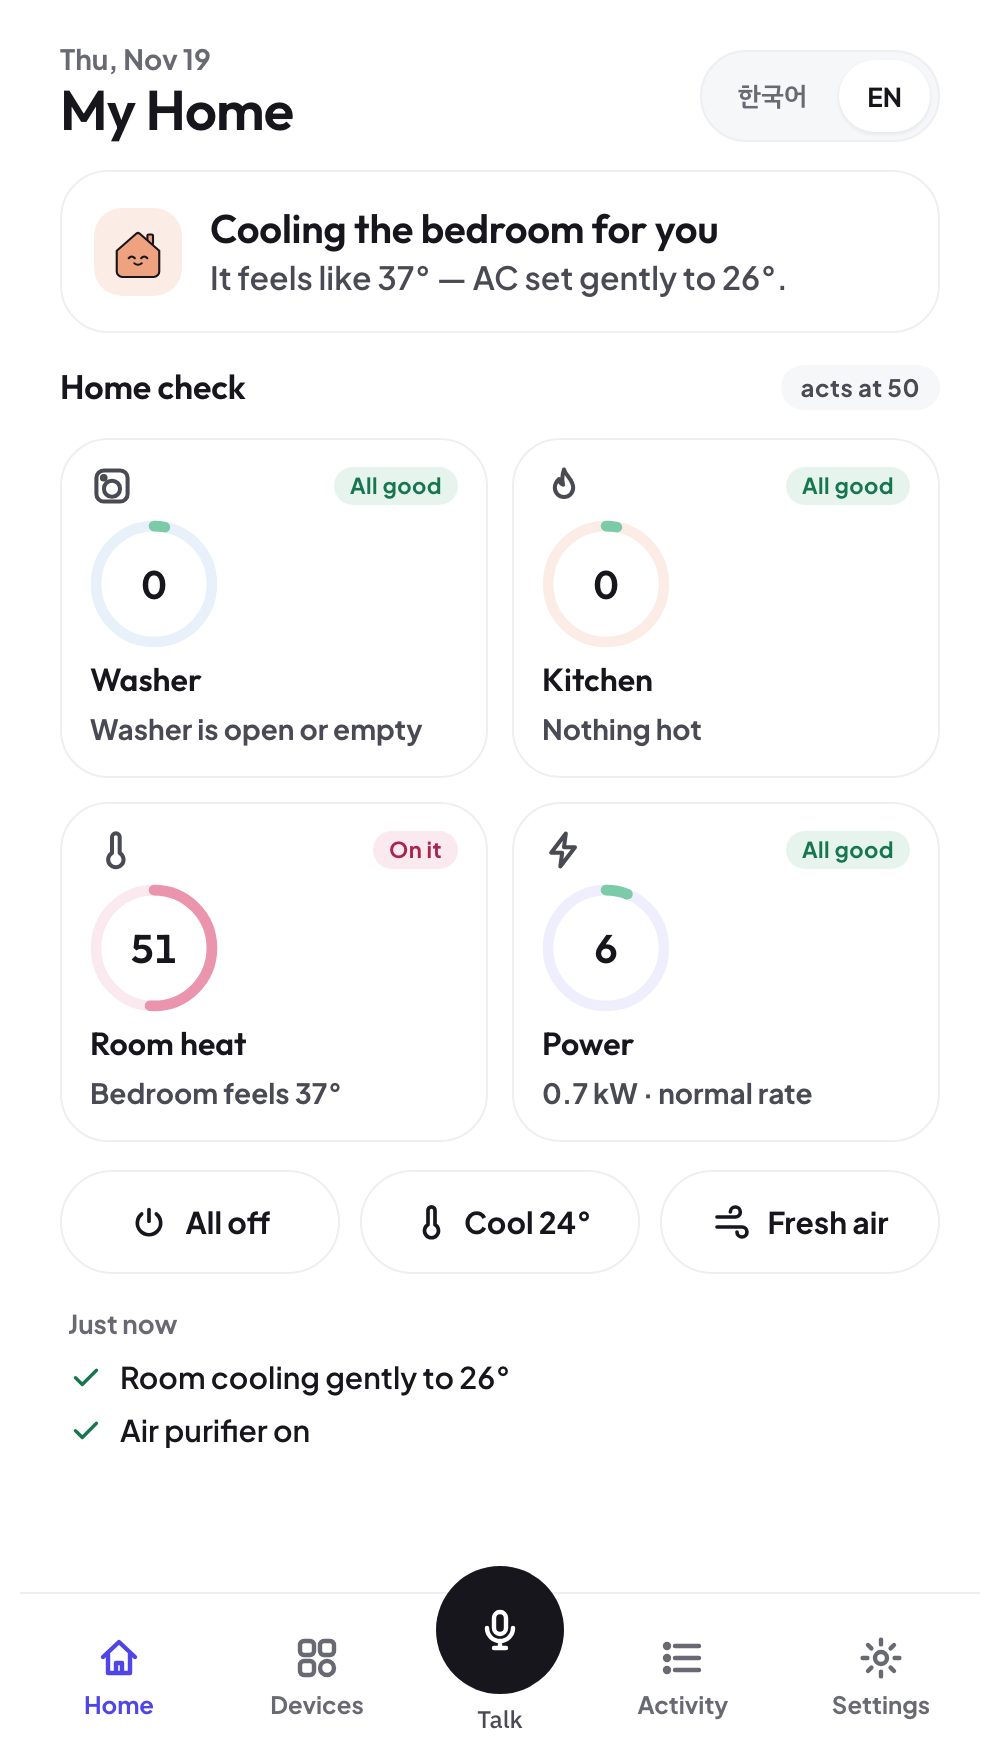
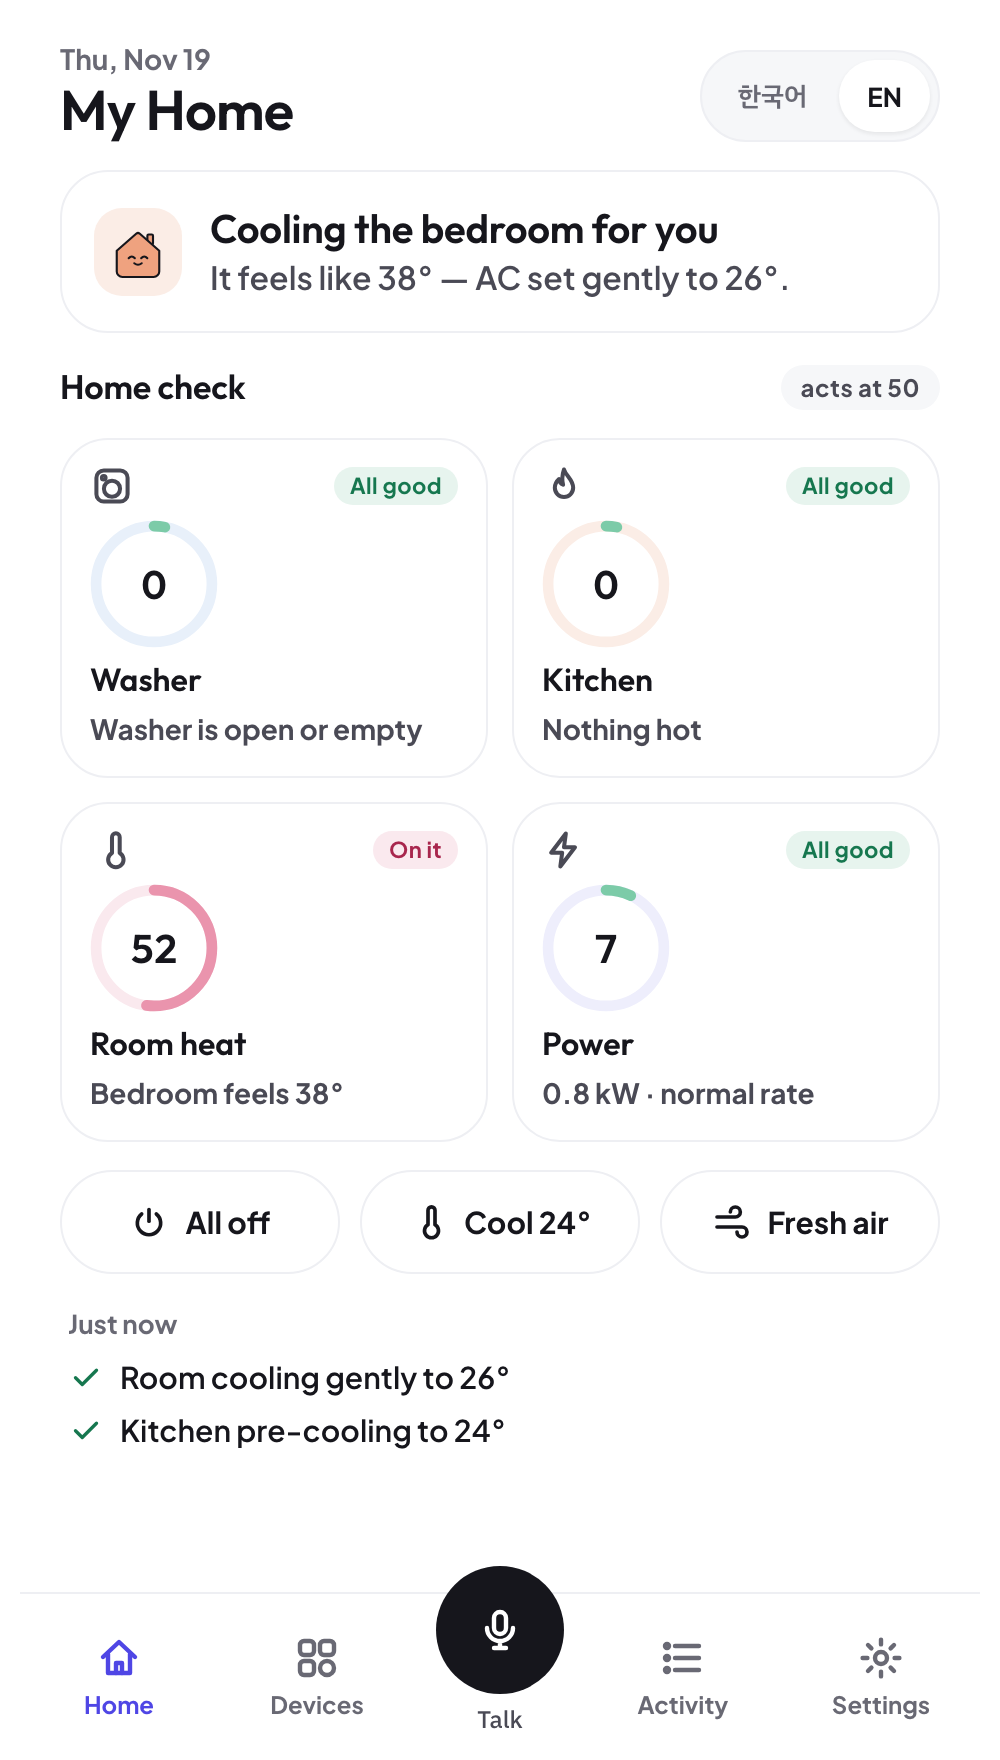
docs: simulator wattages from LG specifications; screenshots refreshed
PLI section states the LG appliance draws and the 845 W / 40 W-per-degree
AC model; Use Cases 3 and 8 use the new figures (dryer 1.4 kW, peak
2.4 -> 2.3 -> 1.7 kW). All use-case screenshots regenerated.

diff --git a/docs/project_specifications_final.tex b/docs/project_specifications_final.tex
@@ -183,7 +183,7 @@ The risk assessment module (\texttt{app/risk.py}) computes four indices determin
     \item \textbf{Environmental \& Hygiene Optimization (MRI):} Prevents mold proliferation in sealed appliances early using low-wattage ventilation or dehumidification, avoiding harsh chemical cleaners and energy-heavy hot-water tub-clean cycles \cite{epa2022, who2009}.
     \item \textbf{Thermodynamic \& Energy Load Balancing (TOI):} Tracks concurrent heat wattage ($W$), kitchen temperature ($T_k$), and refrigerator compressor duty cycle ($D > 0.6$, signaling excess thermal strain) alongside scheduled cooking events ($C = 1$ when a cooking session starts within 30 minutes, otherwise $0$) \cite{ashrae2023}.
     \item \textbf{Heat Stress Where Residents Live (HSI):} Older adults lose heat less efficiently and feel thirst later. HSI uses Steadman's apparent temperature $AT = T + 0.33e - 4.0$, where $e$ is the water-vapour pressure from temperature and relative humidity \cite{steadman1984}, in the living room or bedroom, and only while someone is at home: $\text{HSI} = \text{clamp}[6.0\,(AT - 29.0)]$, which reaches the threshold near $AT = 37\,^\circ$C.
-    \item \textbf{Power Load Against the Tariff (PLI):} The simulator sums the draw of every running appliance; an air conditioner draws less at a warmer setpoint (900~W at 22~$^\circ$C, 100~W less per degree, floor 400~W). With a time-of-use budget $B$ of 2.5~kW in the peak band and 7~kW otherwise, $\text{PLI} = \text{clamp}[60\,L/B]$, so the house acts above about 2.1~kW at peak and 5.8~kW off-peak.
+    \item \textbf{Power Load Against the Tariff (PLI):} The simulator sums the draw of every running appliance; appliance draws follow LG product specifications (oven 2.2~kW, induction zone 2.0~kW, dishwasher 1.6~kW, heat-pump dryer 1.4~kW) \cite{lgcook2026,lgdry2026}, and an air conditioner draws less at a warmer setpoint: 845~W at 22~$^\circ$C \cite{lgac2024}, 40~W (4.7\%) less per degree \cite{kea2017}, 127~W minimum. With a time-of-use budget $B$ of 2.5~kW in the peak band and 7~kW otherwise, $\text{PLI} = \text{clamp}[60\,L/B]$, so the house acts above about 2.1~kW at peak and 5.8~kW off-peak.
     \item \textbf{Trigger \& Tier Separation:} When either index reaches or exceeds its configured threshold ($50.0$), an intervention event is dispatched. The risk threshold determines \emph{whether} an intervention is considered, whereas the predefined action tier determines \emph{whether} the action runs automatically or requires user approval.
 \end{itemize}
 
@@ -436,7 +436,7 @@ All use cases run on a laptop with \texttt{python run.py}. Screenshots were take
 \textbf{Satisfies:} FR-4, FR-5, FR-6.
 \begin{enumerate}
     \item Press \emph{Yes} on the dryer card. The engine revalidates (still valid, overload still active, dryer still on), records the intent, stops the dryer and records the outcome.
-    \item Removing the dryer's 1.8~kW clears the overload; the house sends one reminder that the dryer can be restarted by hand and never restarts it itself.
+    \item Removing the dryer's 1.4~kW clears the overload; the house sends one reminder that the dryer can be restarted by hand and never restarts it itself.
     \item Press \emph{Yes} on the cooktop card. It is revalidated against the meal --- someone at home, cooking still scheduled, cooktop still off --- and switches on.
     \item Home now says ``Watching the cooktop'': it turns off by itself if no cooking starts after the scheduled time, and after 30 minutes at most (Fig.~\ref{fig:uc3}). The cooktop's own load raises TOI again, which the kitchen ring reports truthfully.
 \end{enumerate}
@@ -505,10 +505,10 @@ These paths are exercised by unit tests in \texttt{tests/test\_fr456.py}.
 \subsection{Use Case 8: Power Load at the Peak Rate}
 \textbf{Satisfies:} FR-2 (PLI), FR-3 (Level~1 and Level~2), FR-4, FR-5.
 \begin{enumerate}
-    \item Choose \emph{Demo} $\rightarrow$ \emph{Peak rate}: evening peak band, two air conditioners set to 22~$^\circ$C and a wash running --- about 2.4~kW against a 2.5~kW peak budget.
+    \item Choose \emph{Demo} $\rightarrow$ \emph{Peak rate}: evening peak band, two air conditioners set to 22~$^\circ$C and a wash running --- about 2.4~kW against a 2.5~kW peak budget (PLI~57; 2.3~kW and PLI~55 once the AC is raised).
     \item PLI exceeds 50. The house raises the coldest AC by 2~$^\circ$C on its own (Level~1); the load falls but stays above the threshold.
     \item The sheet asks one question: ``Pause the wash until the peak ends?'' (Fig.~\ref{fig:uc8}).
-    \item On \emph{Yes} the wash pauses (it does not count as finished, so the mold index does not start), the load drops to about 1.8~kW, PLI falls below 50 and Home returns to ``All cozy at home''.
+    \item On \emph{Yes} the wash pauses (it does not count as finished, so the mold index does not start), the load drops to about 1.7~kW, PLI falls to about 41 and Home returns to ``All cozy at home''.
 \end{enumerate}
 
 \begin{figure}[htbp]
